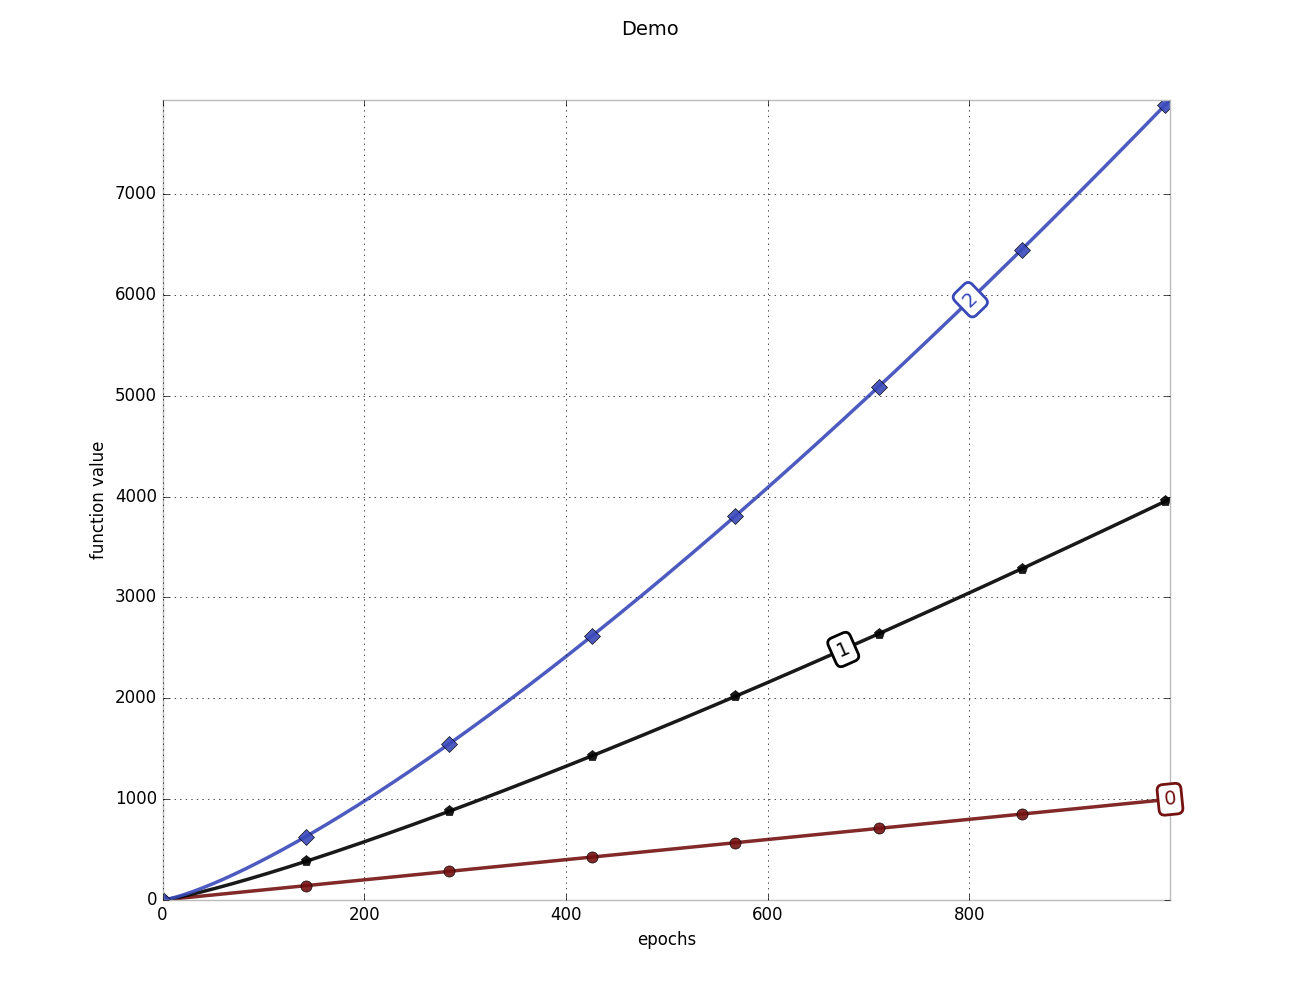
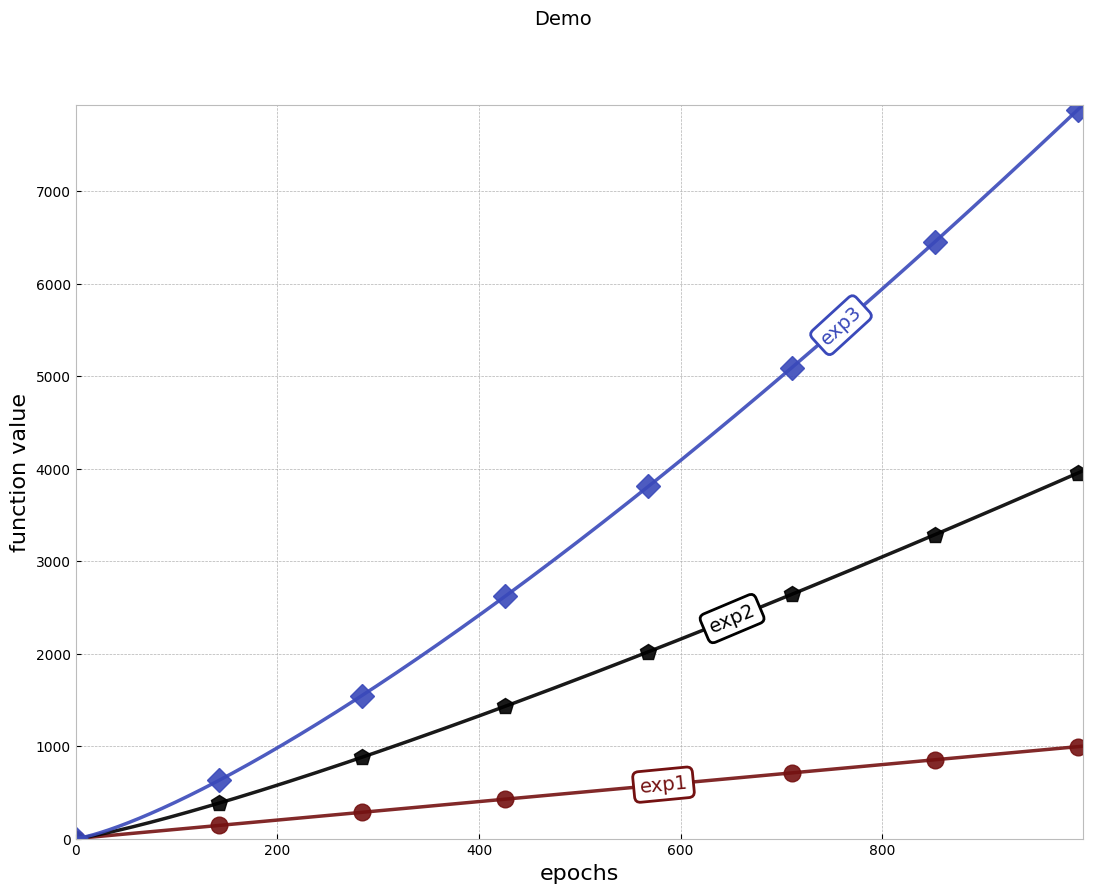
better

diff --git a/prettyplots/plot_utils.py b/prettyplots/plot_utils.py
@@ -5,10 +5,10 @@ import numpy as np
 
 import pandas as pd
 import os
-
+from sklearn.metrics.pairwise import pairwise_distances
 
 def get_overlapPercentage(index, y_list):
-    n_points = 0
+    n_points =  y_list[0].size
     for i in range(index + 1):
         n_points = min(n_points, y_list[i].size)
 
@@ -18,13 +18,15 @@ def get_overlapPercentage(index, y_list):
 
     for i in range(index):
         prev_lines[:, i] = y_list[i][:n_points]
-        prev_lines /=  np.linalg.norm(prev_lines, axis=0)
+
+        prev_lines /=  (np.linalg.norm(prev_lines, axis=0) + 1e-10)
 
     y_norm = y_vector / np.linalg.norm(y_vector, axis=0)
 
     diff = np.abs((prev_lines - y_norm)).min(axis=1)
 
     n_overlap = np.sum(diff < 1e-6)
+
     percentage = n_overlap / float(n_points)
 
     return percentage
@@ -41,29 +43,52 @@ def create_dirs(fname):
 
 
 # LABEL POSITIONS
-def get_labelPositions(y_list, x_list):
+def get_labelPositions(y_list, x_list, ylim=None):
     """Get label positions greedily"""
     n_labels = len(y_list)
 
     # GET BORDER POINTS
     x_min, x_max = get_min_max(x_list)
-    x_mid = (x_max - x_min) / 2
+    if ylim is not None:
+        y_min, y_max = ylim
+    else:
+        y_min, y_max = get_min_max(y_list)
 
-    y_min, y_max = get_min_max(y_list)
-    y_mid = (y_max - y_min) / 2
+    xdiff = (x_max - x_min)
+    ydiff = (y_max - y_min)
+
+
     # Border points
-    bp1 = np.array(list(product([x_min, x_max, x_mid], 
-                                [y_min, y_max, y_mid])))[:-1]
-
-    # Top right points
-    # bp2 = np.array(list(product([0., 1.0, 0.75], 
-    #                             [0., 1.0, 0.75])))[:-1]
-
-    # Bottom right points
-    # bp3 = np.array(list(product([0., 1.0, 0.25], 
-    #                             [0., 1.0, 0.25])))[:-1]    
-    #border_points = np.vstack([bp1, bp2, bp3])
+    bp1 = np.array(list(product([x_min, x_max, xdiff * 0.5], 
+                                [y_min, y_max, ydiff * 0.5])))[:-1]
     border_points = np.vstack([bp1])
+    addedPoints = []
+    
+    for yPoint in np.linspace(y_min, y_max, 6):
+        addedPoints += [(x_min,yPoint)]
+        addedPoints += [(x_max,yPoint)]
+
+    # for xx, yy in zip(x_list, y_list):
+    #     for x, y in zip(xx, yy):
+    #         if (abs(x - x_min) / xdiff) < 0.0005: 
+    #             addedPoints += [(x, y)]
+
+    #         elif (abs(x - x_max) / xdiff) < 0.0005: 
+    #             addedPoints += [(x, y)]
+
+    #         elif (abs(y - y_max) / ydiff) < 0.0005: 
+    #             addedPoints += [(x, y)]
+
+    #         elif (abs(y - y_min) / ydiff) < 0.0005: 
+    #             addedPoints += [(x, y)]
+
+    sPoints = [(xx[0], yy[0]) for xx, yy in zip(x_list, y_list)]
+    ePoints = [(xx[-1], yy[-1]) for xx, yy in zip(x_list, y_list)]
+
+
+    bp2 = np.array(addedPoints +  sPoints + ePoints)    
+    border_points = np.vstack([bp1, bp2])
+
     n_border = border_points.shape[0]
 
     # Initialize placeholders
@@ -78,14 +103,21 @@ def get_labelPositions(y_list, x_list):
 
     for i in range(n_labels):
         # GET POSITIONS
-        n_points = x_list[i].size
-        xy_points = np.zeros((n_points, 2))
 
-        xy_points[:, 0] = x_list[i]
-        xy_points[:, 1] = y_list[i]
+        if ylim is not None:
+            ind = (y_list[i]<y_max+1e-4) & (y_list[i]>y_min-1e-4)
+            n_points = x_list[i][ind].size
+            xy_points = np.zeros((n_points, 2))
+            xy_points[:, 0] = x_list[i][ind]
+            xy_points[:, 1] = y_list[i][ind]
+        else:
+            n_points = x_list[i].size
+            xy_points = np.zeros((n_points, 2))
+            xy_points[:, 0] = x_list[i]
+            xy_points[:, 1] = y_list[i]
    
         # GET REF POINTS
-        dist = get_pairwise_distances(xy_points, ref_points[:n_border + i])
+        dist = pairwise_distances(xy_points, ref_points[:n_border + i])
 
         # GET MINIMUM DISTANCES
         min_dist = dist.min(axis=1)
@@ -161,16 +193,14 @@ def box_color(edgecolor, linestyle, marker):
                 #hatch=marker,
                 linewidth=2, boxstyle="round")
 
-def get_pairwise_distances(A, B):
-    # GET EUCLIDEAN DISTANCES
-    n_A = A.shape[0]
-    n_B = B.shape[0]
+# def get_pairwise_distances(A, B):
+#     # GET EUCLIDEAN DISTANCES
+#     n_A = A.shape[0]
+#     n_B = B.shape[0]
 
-    A_square = np.dot(A ** 2, np.ones((2, n_B)))
-    B_square = np.dot(B ** 2, np.ones((2, n_A)))
+#     A_square = np.dot(A ** 2, np.ones((2, n_B)))
+#     B_square = np.dot(np.ones((n_A, 2)), B.T) ** 2
 
-    AB = np.dot(A, B.T)
+#     dist = A_square + B_square - 2 * np.dot(A, B.T)
 
-    dist = A_square + B_square.T - 2 * AB
-
-    return np.sqrt(dist + 1e-10)
+#     return np.sqrt(dist)

diff --git a/prettyplots/pretty_plot.py b/prettyplots/pretty_plot.py
@@ -6,9 +6,11 @@ import plot_utils as pu
 matplotlib.style.use('bmh')
 
 markers = [("-", "o"), ("-", "p"), ("-", "D"), ("-", "^"), ("-", "s"),
-               ("-", "8"), ("-", "o")]
+               ("-", "8"), ("-", "o"), ("-", "o"), ("-", "o"), ("-", "o"), 
+               ("-", "o"), ("-", "o")]
 colors = ['#741111', "#000000", '#3a49ba','#7634c9', 
-          "#4C9950", "#CC29A3", '#ba3a3a', "#0f7265"]
+          "#4C9950", "#CC29A3", '#ba3a3a', "#0f7265",
+          "#7A7841", "#00C5CD"]
 
 bright_colors = ["#00C5CD"]
 
@@ -21,9 +23,9 @@ def setup_fig(title=None, ylabel=None, xlabel=None):
         #ax.set_title(title, fontsize=14)
         fig.suptitle(title, fontsize=14)
     if ylabel is not None:
-        ax.set_ylabel(ylabel, fontsize=12)
+        ax.set_ylabel(ylabel, fontsize=16)
     if xlabel is not None:
-        ax.set_xlabel(xlabel, fontsize=12)
+        ax.set_xlabel(xlabel, fontsize=16)
 
     #fig.patch.set_facecolor('white')
 
@@ -31,22 +33,24 @@ def setup_fig(title=None, ylabel=None, xlabel=None):
     return fig, ax
 
 class PrettyPlot:
-    def __init__(self, title=None, ylabel=None, xlabel=None):
+    def __init__(self, title=None, ylabel=None, xlabel=None, fontsize=14):
         fig, ax = setup_fig(title, ylabel, xlabel)
-
+        self.fontsize = fontsize
         self.fig = fig 
         self.ax = ax
         self.lim_set = False
+        self.ylim = None
 
     def show(self):
         plt.show()
 
-    def save(self, path):
+    def save(self, path, iformat="png"):
         pu.create_dirs(path)
-        self.fig.savefig(path + ".png")
-        print "Figure saved in %s" % (path)
+        fname = path + ".%s" % iformat
+        self.fig.savefig(fname, bbox_inches='tight')
+        print "Figure saved in %s" % (fname)
 
-    def plot_DataFrame(self, results):
+    def plot_DataFrame(self, results):        
         n_points, n_labels = results.shape
         
         x_vals = np.arange(n_points)
@@ -63,14 +67,25 @@ class PrettyPlot:
 
     def set_lim(self, ylim, xlim):
         self.lim_set = True
+        self.ylim = ylim
+
         self.ax.set_ylim(ylim) 
         self.ax.set_xlim(xlim)   
-              
+    
+    def set_tickSize(self, labelsize=8):
+        [tick.label.set_fontsize(labelsize) for tick in self.ax.yaxis.get_major_ticks()]
+        [tick.label.set_fontsize(labelsize) for tick in self.ax.xaxis.get_major_ticks()]
+
+    def set_title(self, title):
+        self.fig.suptitle(title, fontsize=14)
+
     def plot(self, y_list, x_list, labels=None):
         fig = self.fig
         ax = self.ax 
-
-        label_positions, label_indices = pu.get_labelPositions(y_list, x_list)
+        
+        label_positions, label_indices = pu.get_labelPositions(y_list, 
+                                                               x_list,
+                                                               self.ylim)
 
         ls_markers = markers
         n_labels = len(y_list)
@@ -86,7 +101,7 @@ class PrettyPlot:
 
             ax.set_ylim([y_min, y_max]) 
             ax.set_xlim([x_min, x_max]) 
-
+        
         for i in range(n_labels):
             color = colors[i]
             ls, marker = ls_markers[i]
@@ -106,7 +121,7 @@ class PrettyPlot:
 
             markerFreq = n_points / (int(np.log(n_points)) + 1)
             line, = ax.plot(x_vals, y_vals, markevery=markerFreq, 
-                    markersize=8, color=color, lw=lw, alpha=0.9,
+                    markersize=12, color=color, lw=lw, alpha=0.9,
                     label=label, ls=ls, marker=marker)
 
             x_point, y_point = label_positions[i]
@@ -116,7 +131,7 @@ class PrettyPlot:
                     rotation=angle,
                     color=color, 
                     bbox=pu.box_color(color, ls, marker), 
-                    fontsize=14)
+                    fontsize=self.fontsize)
 
         return fig, ax
 

diff --git a/example.py b/example.py
@@ -8,11 +8,15 @@ if __name__ == "__main__":
 
     epochs = np.arange(1000)
 
+    labels = ["exp1", "exp2", "exp3"]
     x_list = [epochs, epochs, epochs]
     y_list = [y1, y2, y3]
     
-    pp = PrettyPlot(title="Demo", ylabel="function value", 
+    pp = PrettyPlot(title="Demo", 
+                    ylabel="function value", 
                     xlabel="epochs") 
-    pp.plot(y_list, x_list)
+    import pdb; pdb.set_trace()  # breakpoint d3260be3 //
+    
+    pp.plot(y_list, x_list, labels=labels)
     pp.show()
     pp.save("example")
